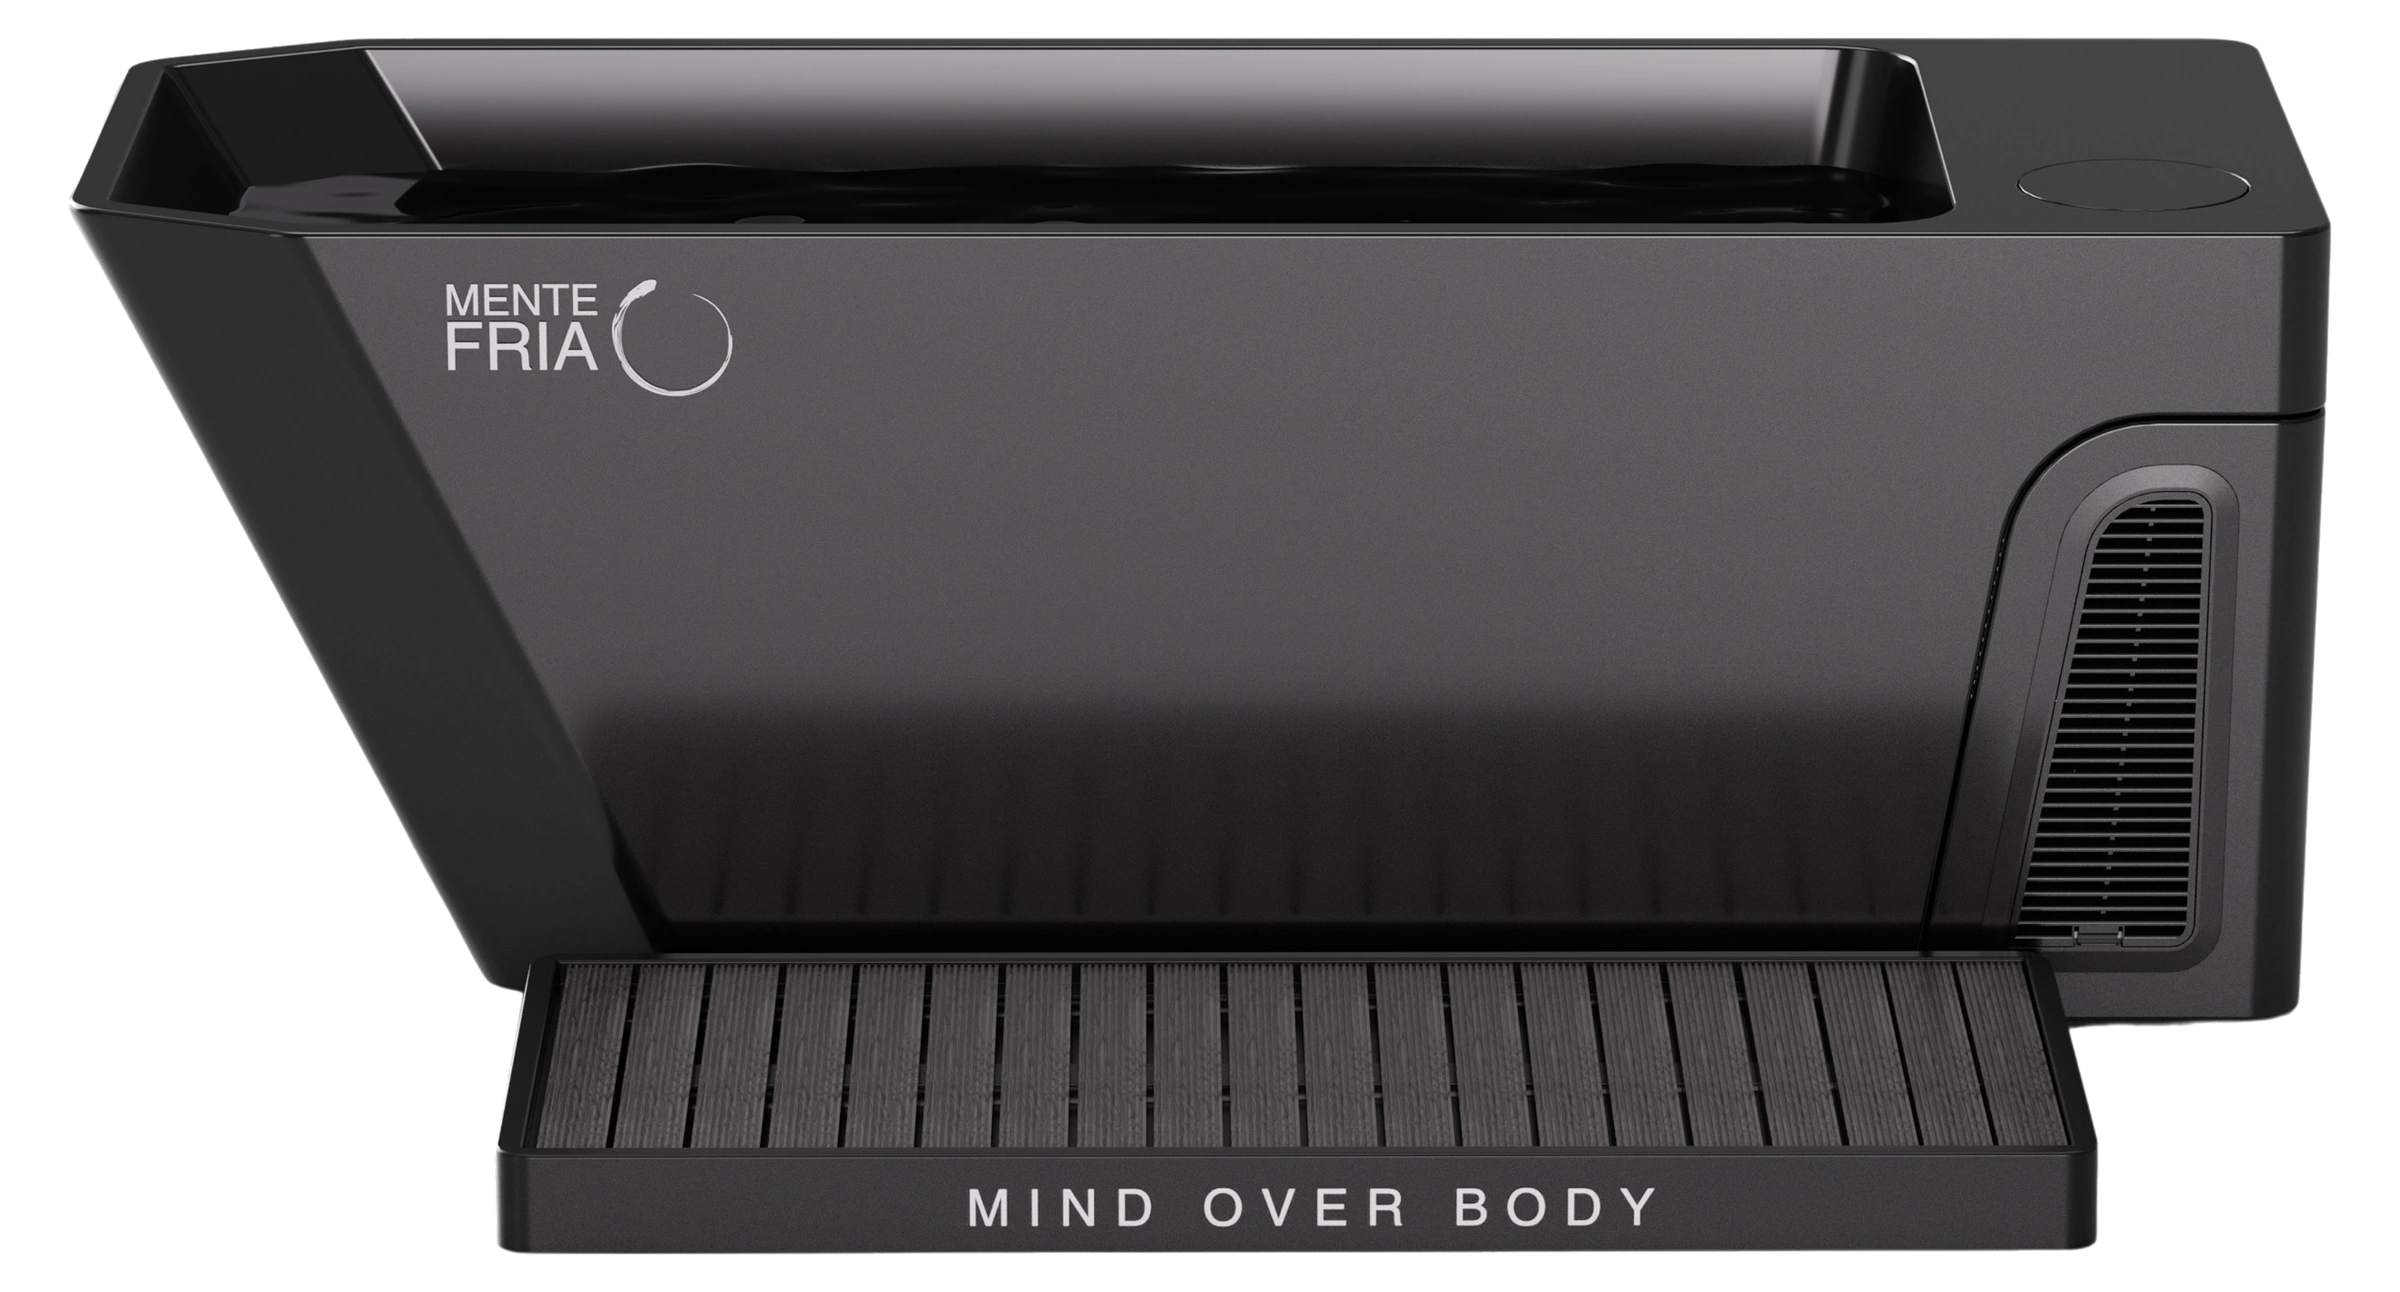
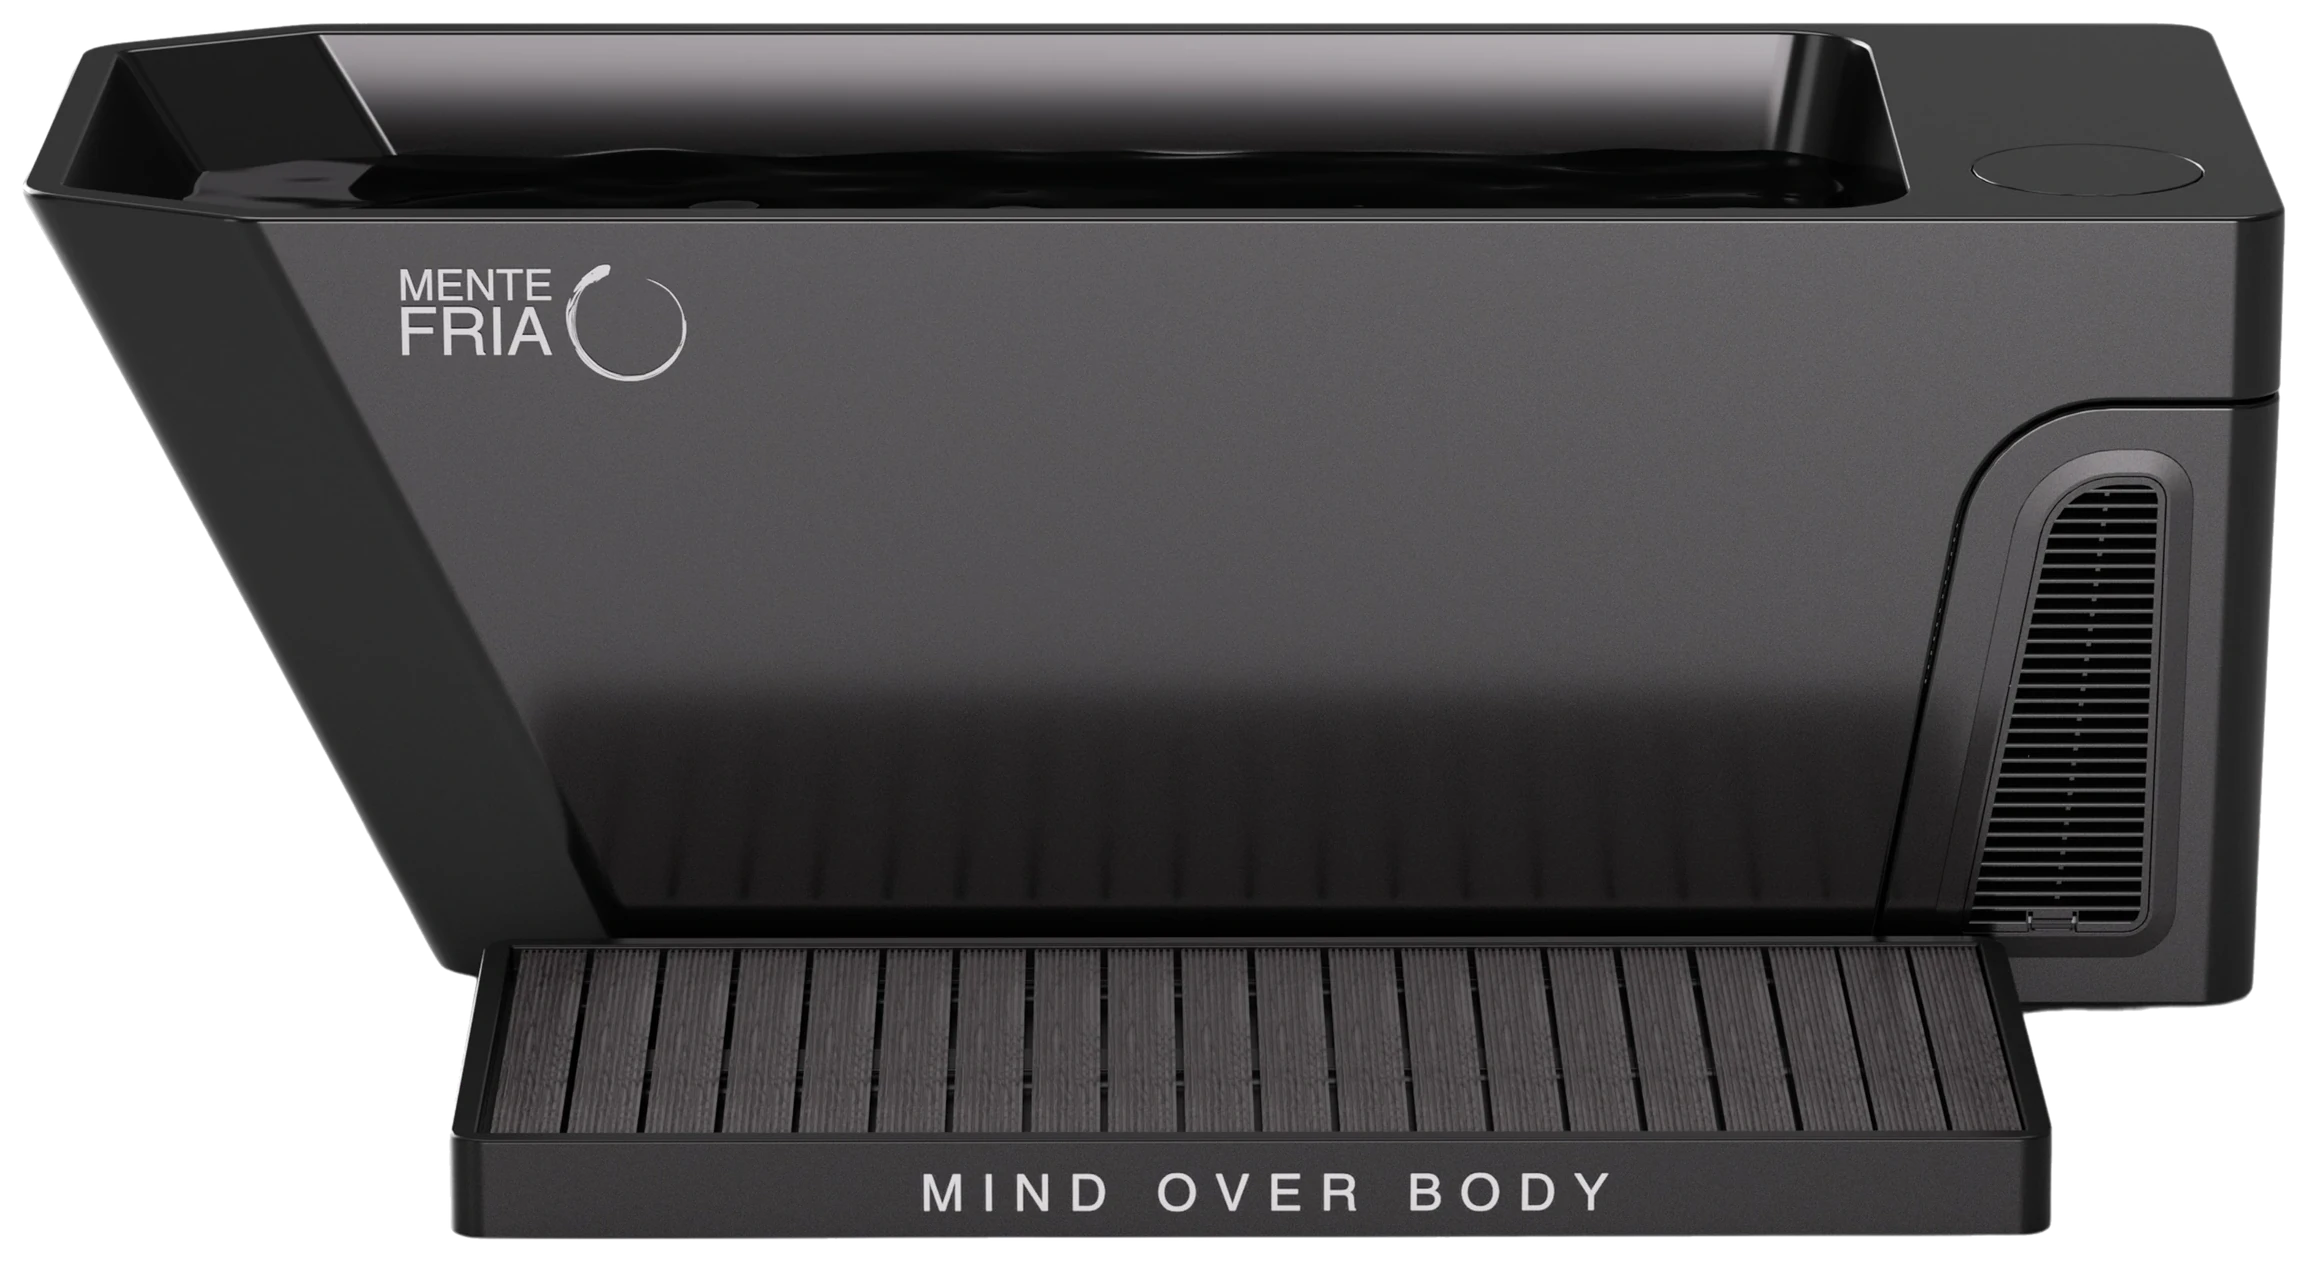
Las tres fotos de producto se recortan al ras y se recalculan los anchos
Saul: el Horizon sigue viendose mas chico que el Barrel y es muy notorio.

La causa no estaba en los numeros sino en los archivos. Medido pixel por pixel,
el producto ocupaba 86% del ancho del archivo en el Barrel, 94% en la MF ONE y
solo 76% en el Horizon: el archivo del Horizon traia casi una cuarta parte de
ancho vacio. Al fijar el ancho de la caja, lo que se veia del Horizon era mucho
menos de lo que decia el porcentaje.

Los tres archivos quedan recortados al ras del producto, con 1% de aire para no
comer sombras:
  prod-barrel-nobg.png   736x552  -> 658x512
  prod-mfone.webp       2400x1292 -> 2308x1262
  prod-horizon-nobg.png 1105x514  -> 868x391

Con los archivos parejos, los anchos vuelven a calcularse por tamano general:
64% el Barrel, 100% la MF ONE y 95% el Horizon.

Medido a 1440 en /productos: Barrel 208 x 162, MF ONE 325 x 178, Horizon
309 x 139. Medias geometricas 184, 241 y 207, o sea 1 : 1.31 : 1.13, la misma
relacion que entre los equipos reales. El Horizon ya se ve claramente mas
grande que el Barrel.

El recorte sirve tambien donde salen sueltas: carrito, quiz y /atletas, porque
ahi la foto se centra en su caja y antes se centraba el aire vacio.

Changed region(s): [[0.0, 0.0, 0.9983, 0.9889], [0.156, 0.309, 0.2184, 0.5254], [0.2184, 0.5254, 0.2496, 0.5563]]

diff --git a/src/components/LandingV2.tsx b/src/components/LandingV2.tsx
@@ -176,9 +176,14 @@ const RAZONES = [
    real (Barrel 90 × 90 cm = 90, MF ONE 195 × 71 = 118, Horizon 160 × 65 =
    102). En pantalla, esa misma media sale de multiplicar el ancho de la foto
    por la raíz de la proporción del archivo. Anclando la MF ONE al 100% de su
-   caja, que es lo más grande que cabe, salen 65% para el Barrel y 93% para el
-   Horizon. En una caja de 287px eso da 186 × 139, 287 × 155 y 268 × 124, con
-   medias de 161, 211 y 183: la misma relación que entre los equipos reales.
+   caja, que es lo más grande que cabe, salen 64% para el Barrel y 95% para el
+   Horizon.
+
+   Para que esa cuenta signifique algo, los tres archivos están recortados al
+   ras del producto. Antes no lo estaban: el del Horizon traía 24% de ancho
+   vacío y el de la MF ONE solo 6%, así que al fijar el ancho de la caja el
+   Horizon salía mucho más chico de lo que decía el número y se veía menor que
+   el Barrel, al revés de la realidad (Saul, sep 2026).
 
    La MF ONE lleva dos valores porque su columna es 1.25 veces más ancha que
    las otras dos, así que ahí el 100% equivale a 78%. Si se cambia una foto por
@@ -188,11 +193,11 @@ const PRODUCTOS = [
     name: "MF BARREL",
     price: "$69,000",
     img: "/images/prod-barrel-nobg.png",
-    w: 736,
-    h: 552,
+    w: 658,
+    h: 512,
     floor: "58%",
     href: "/productos/mf-barrel",
-    anchoFoto: "w-[65%]",
+    anchoFoto: "w-[64%]",
     featured: false,
     bullets: ["Filtración de 3 capas + purificación por ozono.", "Control por app Wi-Fi, programable desde tu celular.", "6 meses de garantía."],
   },
@@ -200,8 +205,8 @@ const PRODUCTOS = [
     name: "MF ONE",
     price: "$169,000",
     img: "/images/prod-mfone.webp",
-    w: 2400,
-    h: 1292,
+    w: 2308,
+    h: 1262,
     floor: "58%",
     href: "/productos/mf-one",
     anchoFoto: "w-full lg:w-[78%]",
@@ -212,11 +217,11 @@ const PRODUCTOS = [
     name: "MF HORIZON",
     price: "$74,000",
     img: "/images/prod-horizon-nobg.png",
-    w: 1105,
-    h: 514,
+    w: 868,
+    h: 391,
     floor: "58%",
     href: "/productos/mf-horizon",
-    anchoFoto: "w-[93%]",
+    anchoFoto: "w-[95%]",
     nudge: "lg:translate-x-2 lg:-translate-y-1.5",
     featured: false,
     bullets: ["Filtración de 3 capas + purificación por ozono.", "Control por app Wi-Fi, programable desde tu celular.", "6 meses de garantía."],

diff --git a/src/app/productos/page.tsx b/src/app/productos/page.tsx
@@ -31,8 +31,8 @@ const tinas = [
     specs: "90 cm diámetro × 90 cm altura · 11 kg · Tejido drop-stitch de grado militar",
     price: "$69,000 MXN",
     image: "/images/prod-barrel-nobg.png",
-    w: 736,
-    h: 552,
+    w: 658,
+    h: 512,
     floor: "58%",
     href: "/productos/mf-barrel",
     badge: null,
@@ -44,8 +44,8 @@ const tinas = [
     specs: "195 × 80 × 71 cm · 135 kg · Acrílico + acero inoxidable",
     price: "$169,000 MXN",
     image: "/images/prod-mfone.webp",
-    w: 2400,
-    h: 1292,
+    w: 2308,
+    h: 1262,
     floor: "58%",
     href: "/productos/mf-one",
     badge: "Más vendido",
@@ -57,8 +57,8 @@ const tinas = [
     specs: "160 × 70 × 65 cm · 12 kg · Tejido drop-stitch de grado militar",
     price: "$74,000 MXN",
     image: "/images/prod-horizon-nobg.png",
-    w: 1105,
-    h: 514,
+    w: 868,
+    h: 391,
     floor: "58%",
     href: "/productos/mf-horizon",
     badge: null,
@@ -115,10 +115,10 @@ export default function ProductosPage() {
                            versión de Rafa; están explicados en LandingV2. */
                         className={`h-auto flex-none object-contain transition-transform duration-500 group-hover:scale-[1.04] ${
                           tina.name === "MF Barrel"
-                            ? "w-[65%]"
+                            ? "w-[64%]"
                             : tina.name === "MF ONE"
                               ? "w-full"
-                              : "w-[93%]"
+                              : "w-[95%]"
                         }`}
                       />
                     </div>

diff --git a/src/components/Navbar.tsx b/src/components/Navbar.tsx
@@ -17,8 +17,8 @@ import { useCarrito } from "@/components/CarritoProvider";
 */
 
 /* WHOOP-style mega-menu cards for "Productos" */
-/* Los tres anchos son los mismos en todo el sitio: 65% el Barrel, 100% la MF
-   ONE y 93% el Horizon. Salen de medir la primera version de Rafa y estan
+/* Los tres anchos son los mismos en todo el sitio: 64% el Barrel, 100% la MF
+   ONE y 95% el Horizon. Salen de medir la primera version de Rafa y estan
    explicados en LandingV2. Si se cambian aqui, hay que cambiarlos en el
    inicio, en /productos, en /negocios y en /garantia. */
 const MEGA_PRODUCTS = [
@@ -34,14 +34,14 @@ const MEGA_PRODUCTS = [
     img: "/images/prod-horizon-nobg.png",
     blurb: "Tejido drop-stitch de grado militar. Cabes estirado, 550 L y se guarda en su mochila.",
     href: "/productos/mf-horizon",
-    scale: "93%",
+    scale: "95%",
   },
   {
     name: "MF BARREL",
     img: "/images/prod-barrel-nobg.png",
     blurb: "El mismo drop-stitch de grado militar en formato vertical. Ocupa poco, pesa 11 kg y viaja contigo.",
     href: "/productos/mf-barrel",
-    scale: "65%",
+    scale: "64%",
   },
 ];
 

diff --git a/src/app/negocios/page.tsx b/src/app/negocios/page.tsx
@@ -482,10 +482,10 @@ export default function NegociosPage() {
                            sep 2026). El cálculo está explicado en LandingV2. */
                         className={`h-auto flex-none object-contain transition-transform duration-500 group-hover:scale-[1.04] ${
                           /barrel/i.test(p.name)
-                            ? "w-[65%]"
+                            ? "w-[64%]"
                             : /one/i.test(p.name)
                               ? "w-full"
-                              : "w-[93%]"
+                              : "w-[95%]"
                         }`}
                       />
                     </div>

diff --git a/src/app/garantia/page.tsx b/src/app/garantia/page.tsx
@@ -109,7 +109,7 @@ export default function GarantiaPage() {
                       loading="lazy"
                       decoding="async"
                       className={`h-auto max-h-full object-contain transition-transform duration-500 group-hover:scale-[1.04] ${
-                        p.t === "MF Barrel" ? "w-[65%]" : p.t === "MF ONE" ? "w-full" : "w-[93%]"
+                        p.t === "MF Barrel" ? "w-[64%]" : p.t === "MF ONE" ? "w-full" : "w-[95%]"
                       }`}
                     />
                   </div>

diff --git a/docs/cambios-rafa-2026-09-23.md b/docs/cambios-rafa-2026-09-23.md
@@ -17,7 +17,7 @@ export PATH=/Users/SaulP/.local/opt/node/bin:$PATH && cd ~/mentefria/mentefria-s
 
 ## Pendientes de publicar a Shopify
 
-Diez. Lo de abajo de la segunda tabla ya está en el tema borrador.
+Once. Lo de abajo de la segunda tabla ya está en el tema borrador.
 
 | # | Comentario | Qué se hizo | Archivos |
 |---|---|---|---|
@@ -31,6 +31,7 @@ Diez. Lo de abajo de la segunda tabla ya está en el tema borrador.
 | 14 | En la página de productos el orden en teléfono sigue mal: debe ir MF ONE, luego Horizon y al final Barrel. | El reordenamiento del 11 solo estaba en la reja del inicio; la página de productos es otra reja. Ahora usa la misma clase, así que abajo de 1024px va MF ONE, Horizon y Barrel, tanto en una columna como en dos. En tres columnas sigue Barrel, MF ONE y Horizon. | app/productos/page.tsx |
 | 15 | Los tamaños de la referencia deben aplicar en TODOS los lugares donde aparecen los tres productos, no solo en el inicio. En productos se sigue viendo chica. | Se aplicaron los mismos 70, 78 y 84% en las otras cuatro reja: /productos, /negocios, el menú desplegable y /garantia. En /garantia además estaban ajustadas al alto de la caja, así que las tres salían del mismo tamaño. En /productos la caja medía 270px fijos y sobraban entre 79 y 120px de blanco encima de cada foto; ahora mide lo que pide la foto. | 4 archivos |
 | 16 | Siguen chicas, sobre todo en computadora, y el Horizon se ve más chico que el Barrel cuando en realidad es más grande. | Cambió el criterio: ya no se iguala el ancho sino el tamaño general en pantalla. Las tres fotos tienen recortes distintos, así que al mismo ancho el Barrel, que es alto y estrecho, se veía más grande que el Horizon, que es plano y largo. Ahora el ancho sale de la media geométrica de largo y alto del equipo real: 65% el Barrel, 100% la MF ONE y 93% el Horizon. Todo crece alrededor de 28% y el orden visual queda MF ONE, Horizon y Barrel, como en la realidad. | 5 archivos |
+| 17 | El Horizon sigue viéndose más chico que el Barrel, y es muy notorio. | La causa estaba en los archivos, no en los números: el del Horizon traía 24% de ancho vacío alrededor del producto y el de la MF ONE solo 6%, así que al fijar el ancho de la caja el Horizon salía mucho más chico de lo que decía el porcentaje. Se recortaron los tres archivos al ras del producto y se recalcularon los anchos: 64% el Barrel, 100% la MF ONE y 95% el Horizon. A 1440 quedan en 208, 325 y 309px de ancho. | 3 imágenes + 5 archivos |
 
 ---
 
